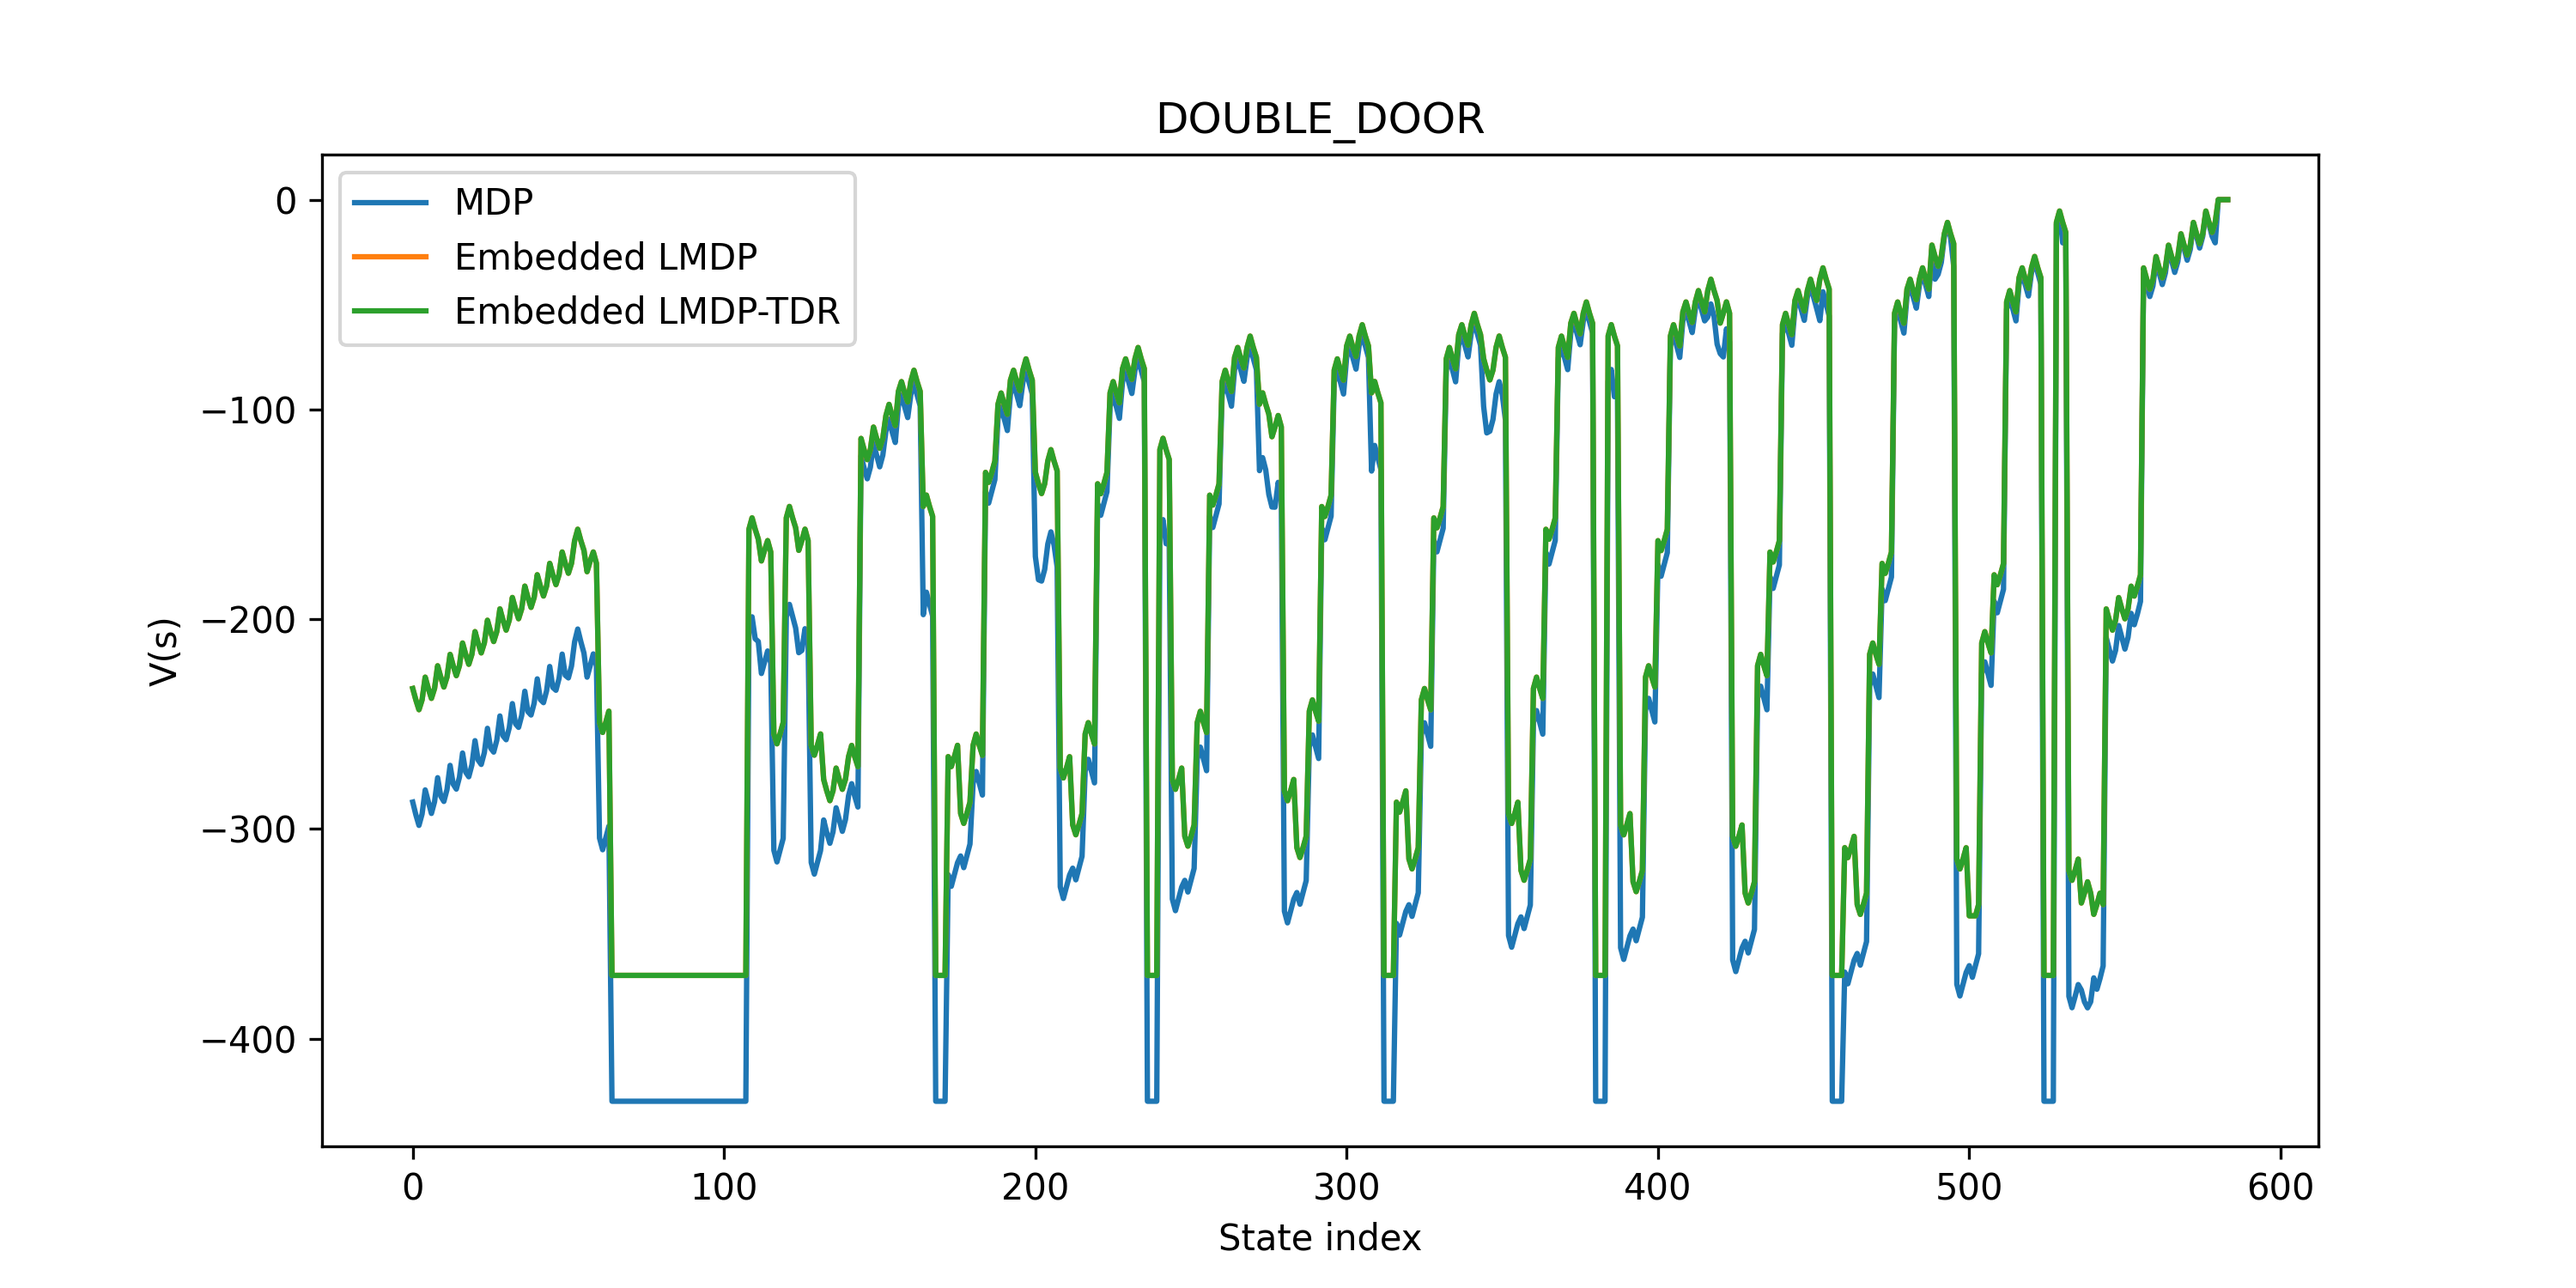
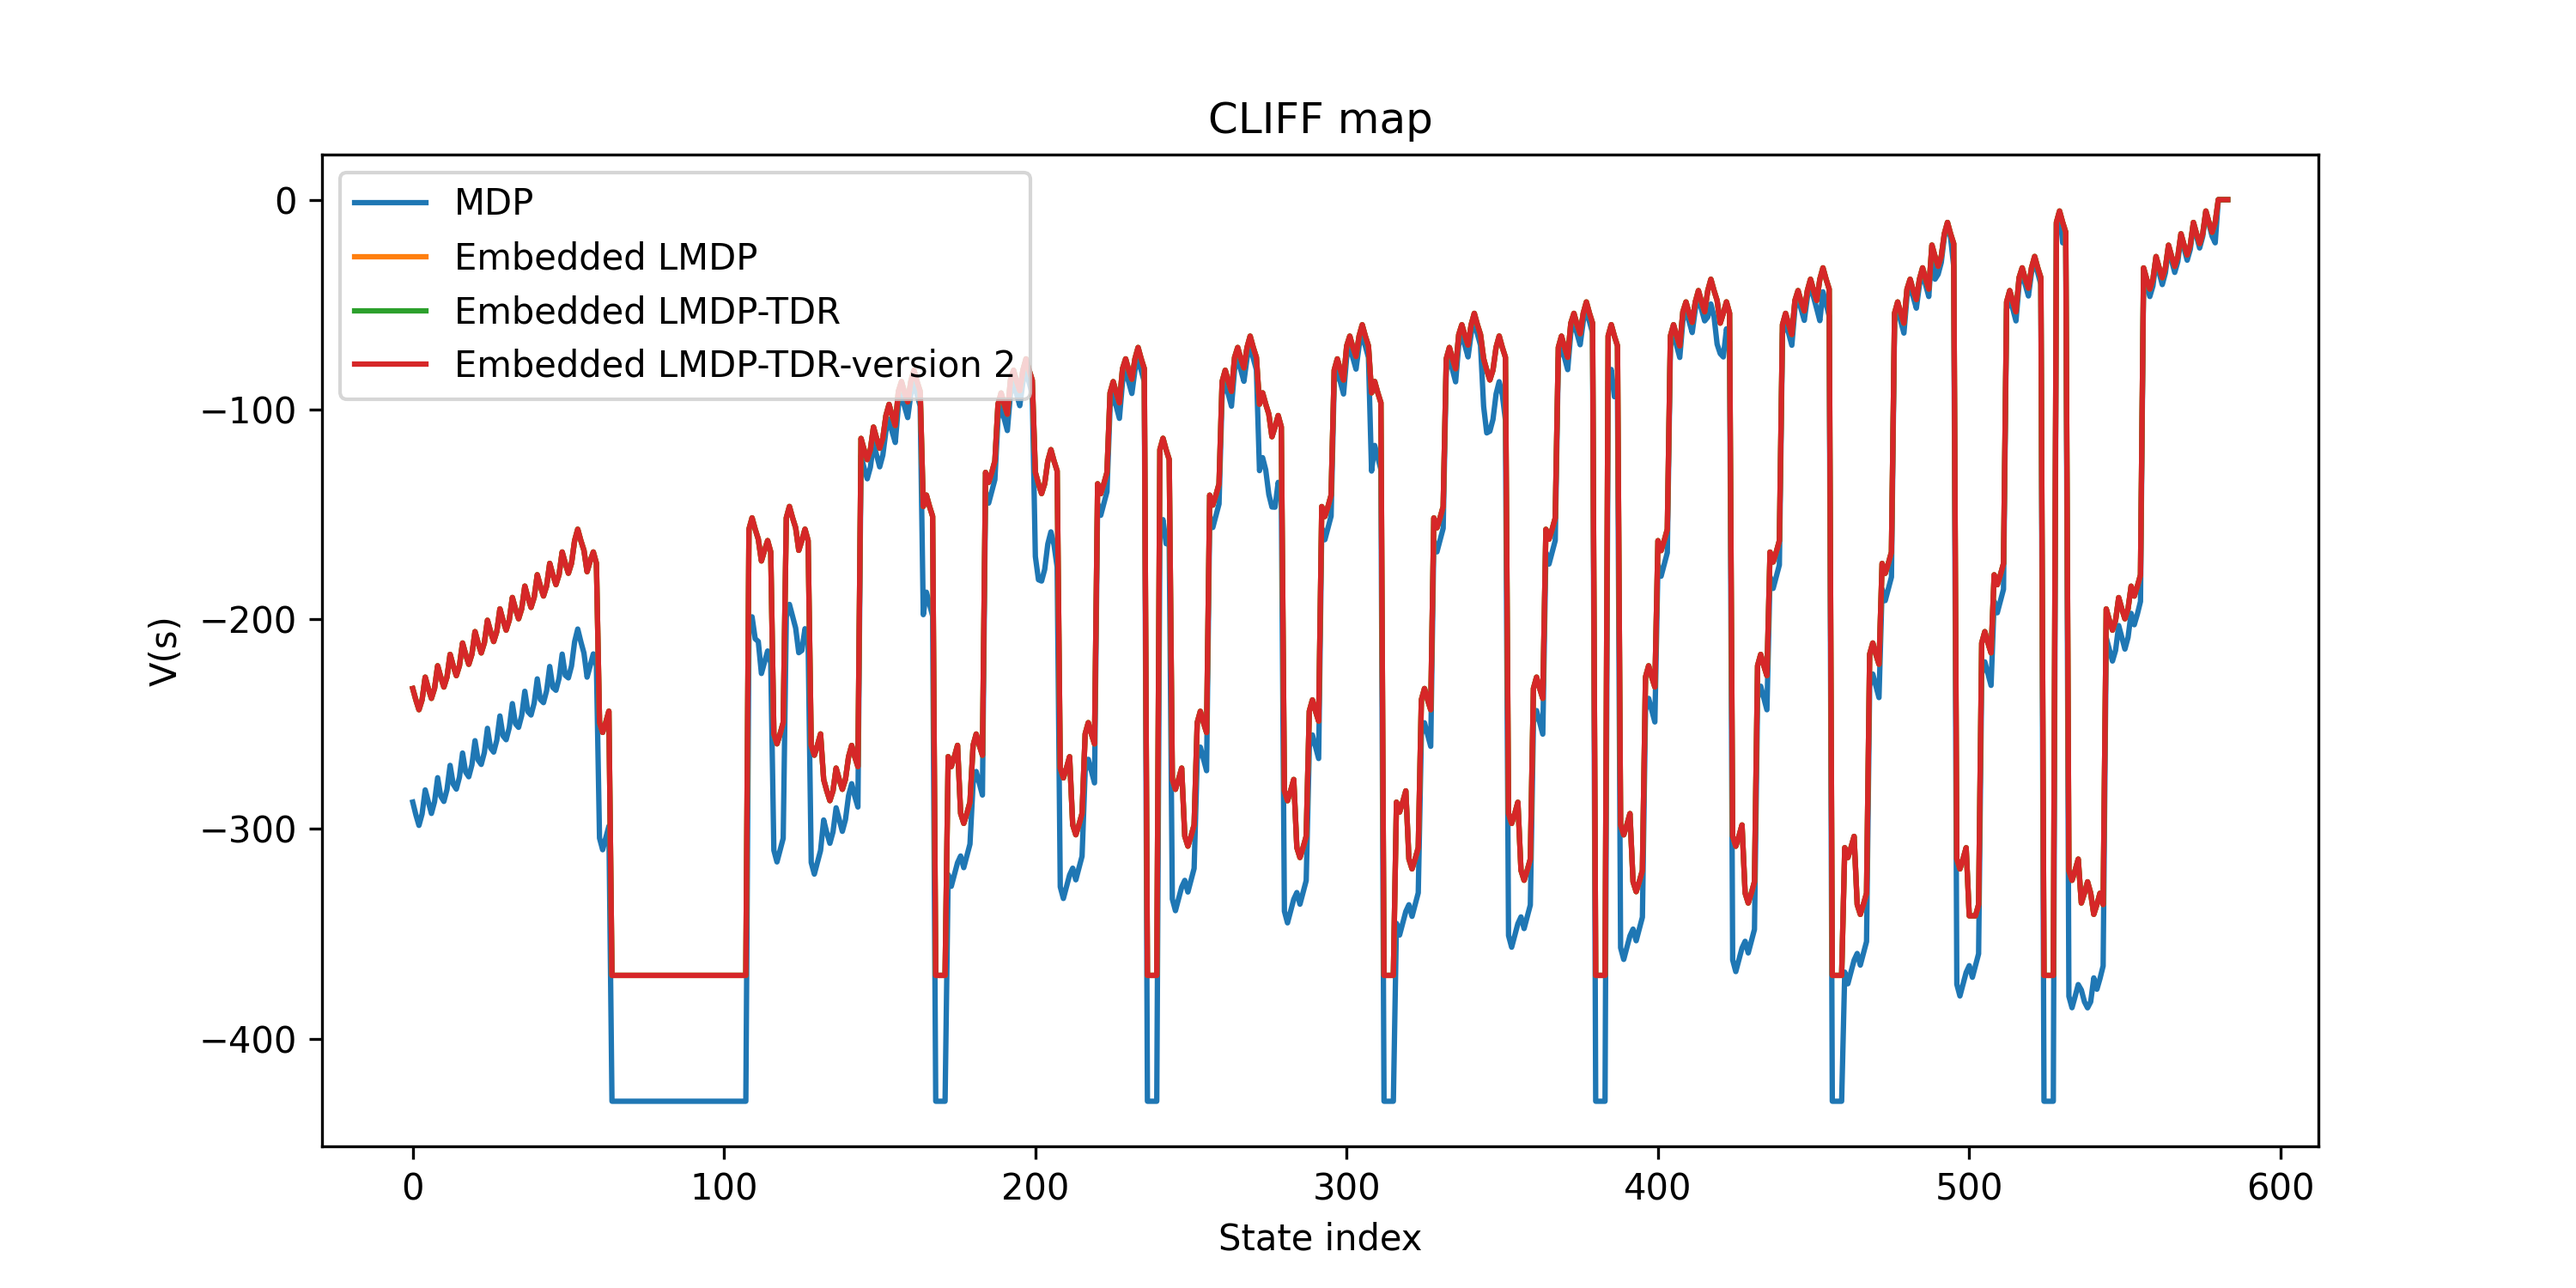
Attempting to model a problem with LMDP-TDR better than with a regular LMDP.
(Not achieved, yet)

diff --git a/main.py b/main.py
@@ -22,67 +22,86 @@ if __name__ == "__main__":
             MinigridActions.ROTATE_LEFT,
             MinigridActions.ROTATE_RIGHT,
             MinigridActions.FORWARD,
-            MinigridActions.PICKUP,
-            MinigridActions.DROP,
-            MinigridActions.TOGGLE
+            # MinigridActions.PICKUP,
+            # MinigridActions.DROP,
+            # MinigridActions.TOGGLE
         ],
-        map=Maps.SIMPLE_TEST,
+        map=Maps.LARGE_TEST_CLIFF,
         # objects=Maps.DOUBLE_DOOR_OBJECTS,
-        deterministic=False
+        deterministic=True,
     )
     
-    print(mdp.R)
     
-    embedded_lmdp = mdp.to_LMDP()
-    embedded_lmdptdr = mdp.to_LMDP_TDR()
-    embedded_lmdptdr_2 = mdp.to_LMDP_TDR_2()
+    
+    lmdp = MinigridLMDP(
+        allowed_actions=[
+            MinigridActions.ROTATE_LEFT,
+            MinigridActions.ROTATE_RIGHT,
+            MinigridActions.FORWARD,
+            # MinigridActions.PICKUP,
+            # MinigridActions.DROP,
+            # MinigridActions.TOGGLE
+        ],
+        map=Maps.LARGE_TEST_CLIFF,
+        # objects=Maps.DOUBLE_DOOR_OBJECTS,
+        sparse_optimization=False,
+    )
+    
+    lmdp_tdr = MinigridLMDP_TDR(
+        allowed_actions=[
+            MinigridActions.ROTATE_LEFT,
+            MinigridActions.ROTATE_RIGHT,
+            MinigridActions.FORWARD,
+            # MinigridActions.PICKUP,
+            # MinigridActions.DROP,
+            # MinigridActions.TOGGLE
+        ],
+        map=Maps.LARGE_TEST_CLIFF,
+        # objects=Maps.DOUBLE_DOOR_OBJECTS,
+        sparse_optimization=False
+    )
+    
     
     mdp.compute_value_function()
-    embedded_lmdp.compute_value_function()
-    embedded_lmdptdr.compute_value_function()
-    embedded_lmdptdr_2.compute_value_function()
+    states_goal, actions_goal = mdp.states_to_goal(include_actions=True)
+    states_goal = states_goal[:-1]
+    actions_goal = [int(action) for action in actions_goal[:-1]]
     
-    print("REWARD 1")
-    print(embedded_lmdptdr.R)
-    print("REWARD 2")
-    print(embedded_lmdptdr_2.R)
+    print("States to goal: ", states_goal)
+    print("Actions to goal: ", actions_goal)
     
     
-    # lmdp = MinigridLMDP(
-    #     allowed_actions=[
-    #         MinigridActions.ROTATE_LEFT,
-    #         MinigridActions.ROTATE_RIGHT,
-    #         MinigridActions.FORWARD,
-    #         # MinigridActions.PICKUP,
-    #         # MinigridActions.DROP,
-    #         # MinigridActions.TOGGLE
-    #     ],
-    #     map=Maps.SIMPLE_TEST,
-    #     # objects=Maps.CHALLENGE_DOOR_OBJECTS,
-    #     lmdp=embedded_lmdp
-    # )
+    for i in range(len(states_goal) - 1):
+        lmdp_tdr.R[states_goal[i], states_goal[i+1]] = -1
+        lmdp.R[states_goal[i+1]] = -1
+        mdp.R[states_goal[i], actions_goal[i]] = -1
+        
     
-    # lmdp.visualize_policy(num_times=1, save_gif=True, save_path="assets/now.gif")
     
-    close = np.isclose(embedded_lmdp.V, embedded_lmdptdr.V)
-    if not np.all(close):
-        diff_indices = np.where(~close)
-        print("VALUE FUNCTIONS are NOT close at indices:")
-        for idx in diff_indices[0]:
-            diff = abs(embedded_lmdp.V[idx] - embedded_lmdptdr.V[idx])
-            # print(f"Index ({idx}{', cliff' if idx in cliff_states else ''}): Diff = {round(diff, 4)} lmdp.V = {lmdp.V[idx]}, lmdp_tdr.V = {lmdp_tdr.V[idx]}")
-            print(f"Index ({idx}): Diff = {round(diff, 4)} elmdp.V = {embedded_lmdp.V[idx]}, lmdp_tdr.V = {embedded_lmdptdr.V[idx]}.")
-    else:
-        print("\t\tVALUE FUNCTIONS are close", True)
+    
+    
+    
+    mdp.compute_value_function()
+    lmdp.compute_value_function()
+    lmdp_tdr.compute_value_function()
+    
+    
+    
+    
+    
+    
+    diff_mdp_lmdp = np.linalg.norm(mdp.V - lmdp.V)
+    diff_mdp_lmdptdr = np.linalg.norm(mdp.V - lmdp_tdr.V)
     
     fig = plt.figure(figsize=(10, 5))
-    plt.plot(np.arange(len(mdp.V)), mdp.V, label="MDP")
-    plt.plot(np.arange(len(embedded_lmdp.V)), embedded_lmdp.V, label="Embedded LMDP")
-    plt.plot(np.arange(len(embedded_lmdptdr.V)), embedded_lmdptdr.V, label="Embedded LMDP-TDR")
-    plt.plot(np.arange(len(embedded_lmdptdr_2.V)), embedded_lmdptdr_2.V, label="Embedded LMDP-TDR-version 2")
+    plt.plot([i for i in range(len(lmdp.V))], lmdp.V, color="blue", label="LMDP")
+    plt.plot([i for i in range(len(mdp.V))], mdp.V, color="green", label="MDP")
+    plt.plot([i for i in range(len(lmdp_tdr.V))], lmdp_tdr.V, color="red", label="LMDP-TDR")
     plt.xlabel("State index")
     plt.ylabel("V(s)")
-    plt.title("DOUBLE_DOOR")
-    
+    plt.title(f"MDP vs LMPD: {round(diff_mdp_lmdp, 3)}. MDP vs LMDP-TDR: {round(diff_mdp_lmdptdr, 3)}")
+    plt.grid()
     plt.legend()
-    plt.savefig("assets/mdp_lmdp-tdr.png", dpi=300)
+    
+    plt.show()
+    

diff --git a/domains/minigrid_env.py b/domains/minigrid_env.py
@@ -347,13 +347,16 @@ class MinigridMDP(MDP):
                 
         return 0
     
-    def states_to_goal(self, stochastic: bool = False) -> list[int]:
+    def states_to_goal(self, stochastic: bool = False, include_actions: bool = False) -> list[int]:
         """
         Returns the indices of the states that lead to the solution based on the derived policy
+        include_actions: if true, the actions that lead to the transition of the states are returned as well
         """
         curr_state = self.minigrid_env.custom_grid.state_index_mapper[self.s0]
         curr_state_idx = self.s0
         states = [self.s0]
+        actions = []
+        
         
         while not self.minigrid_env.custom_grid.is_terminal(curr_state):
             if stochastic:
@@ -368,6 +371,10 @@ class MinigridMDP(MDP):
                     curr_state_idx = self.minigrid_env.custom_grid.states.index(curr_state)
             
             states.append(curr_state_idx)
+            actions.append(curr_action)
+        
+        if include_actions:
+            return (states, actions)
         
         return states
 

diff --git a/utils/maps.py b/utils/maps.py
@@ -18,9 +18,9 @@ class Maps:
     
     THREE = [
     "#####",
-    "#S  #",
+    "#S# #",
     "#   #",
-    "# CG#",
+    "#  G#",
     "#####"
     ]
 
@@ -75,6 +75,14 @@ class Maps:
         "# # # # # #  #C #",
         "#S  #   #      G#",
         "#################",
+    ]
+    
+    CLIFF_2 = [
+        "#######",
+        "#     #",
+        "#     #",
+        "#SCCCG#",
+        "#######",
     ]
 
     CHEATING_CLIFF = [
